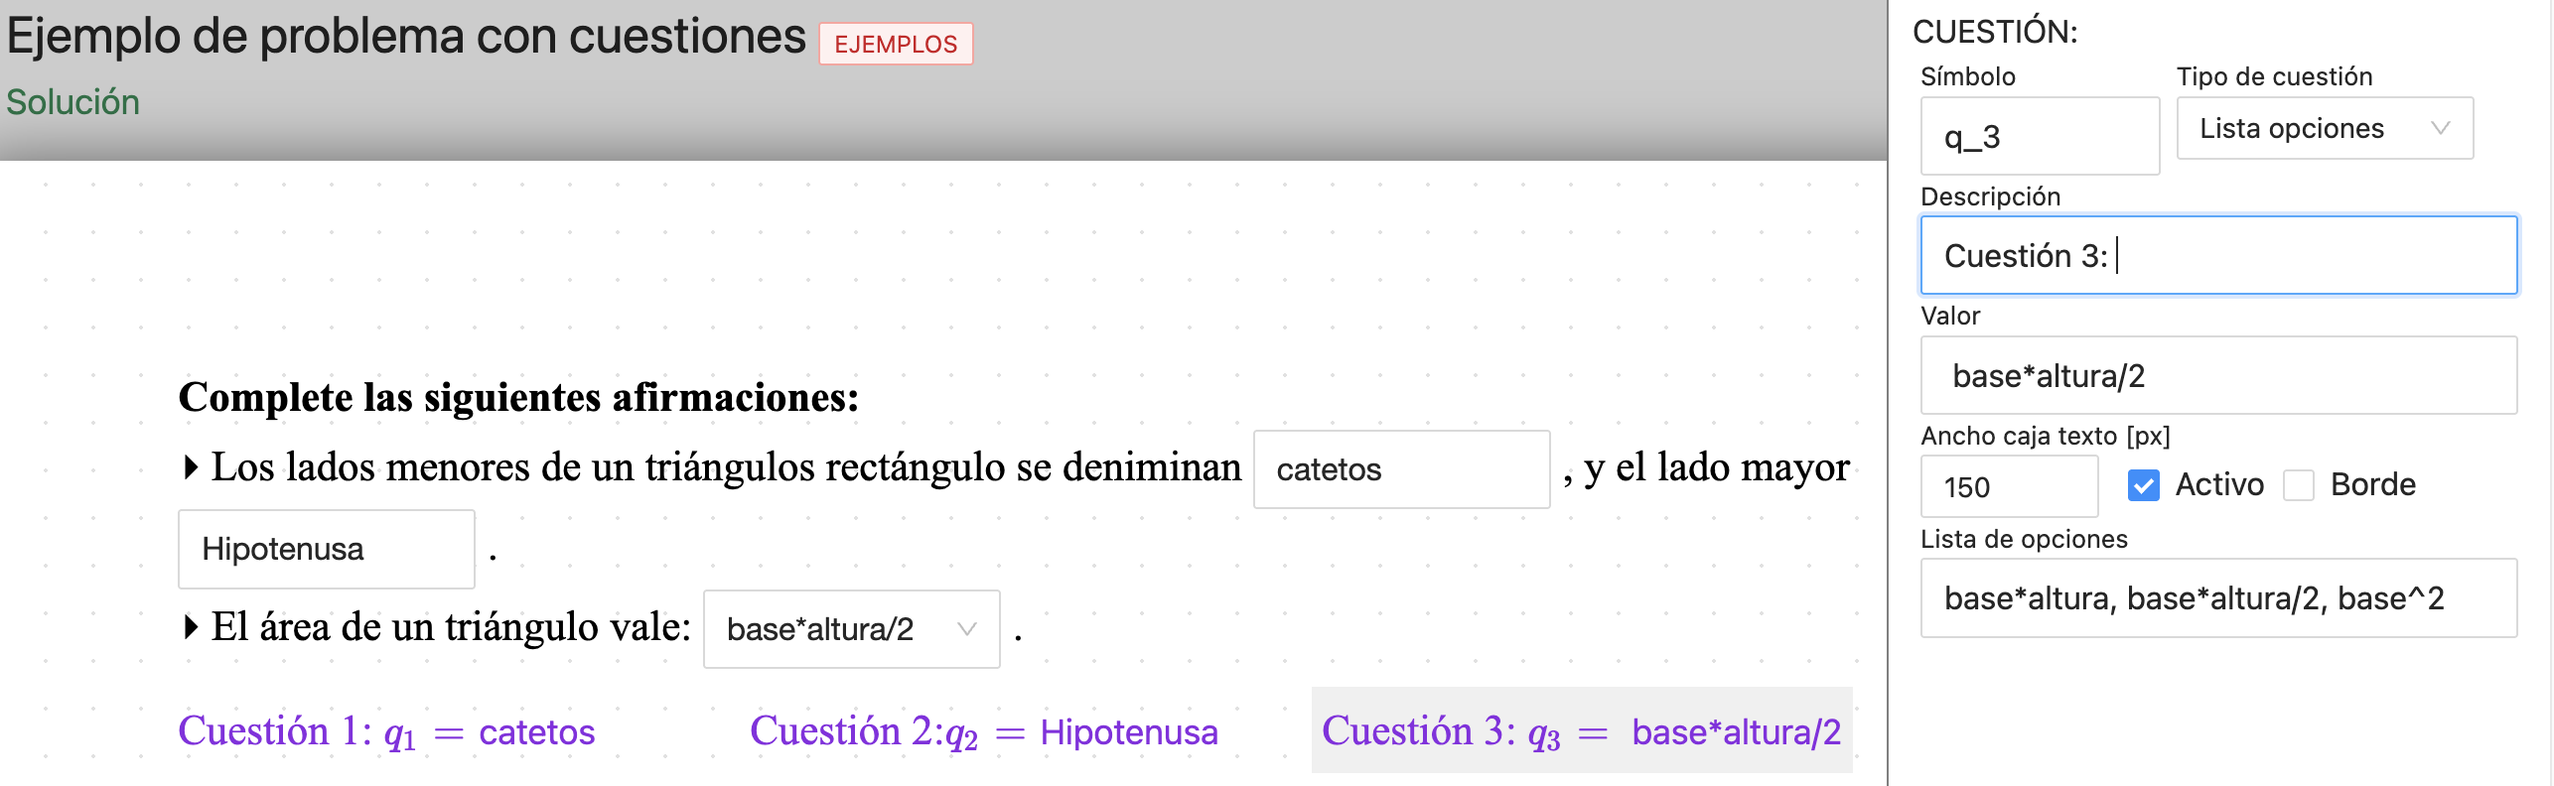
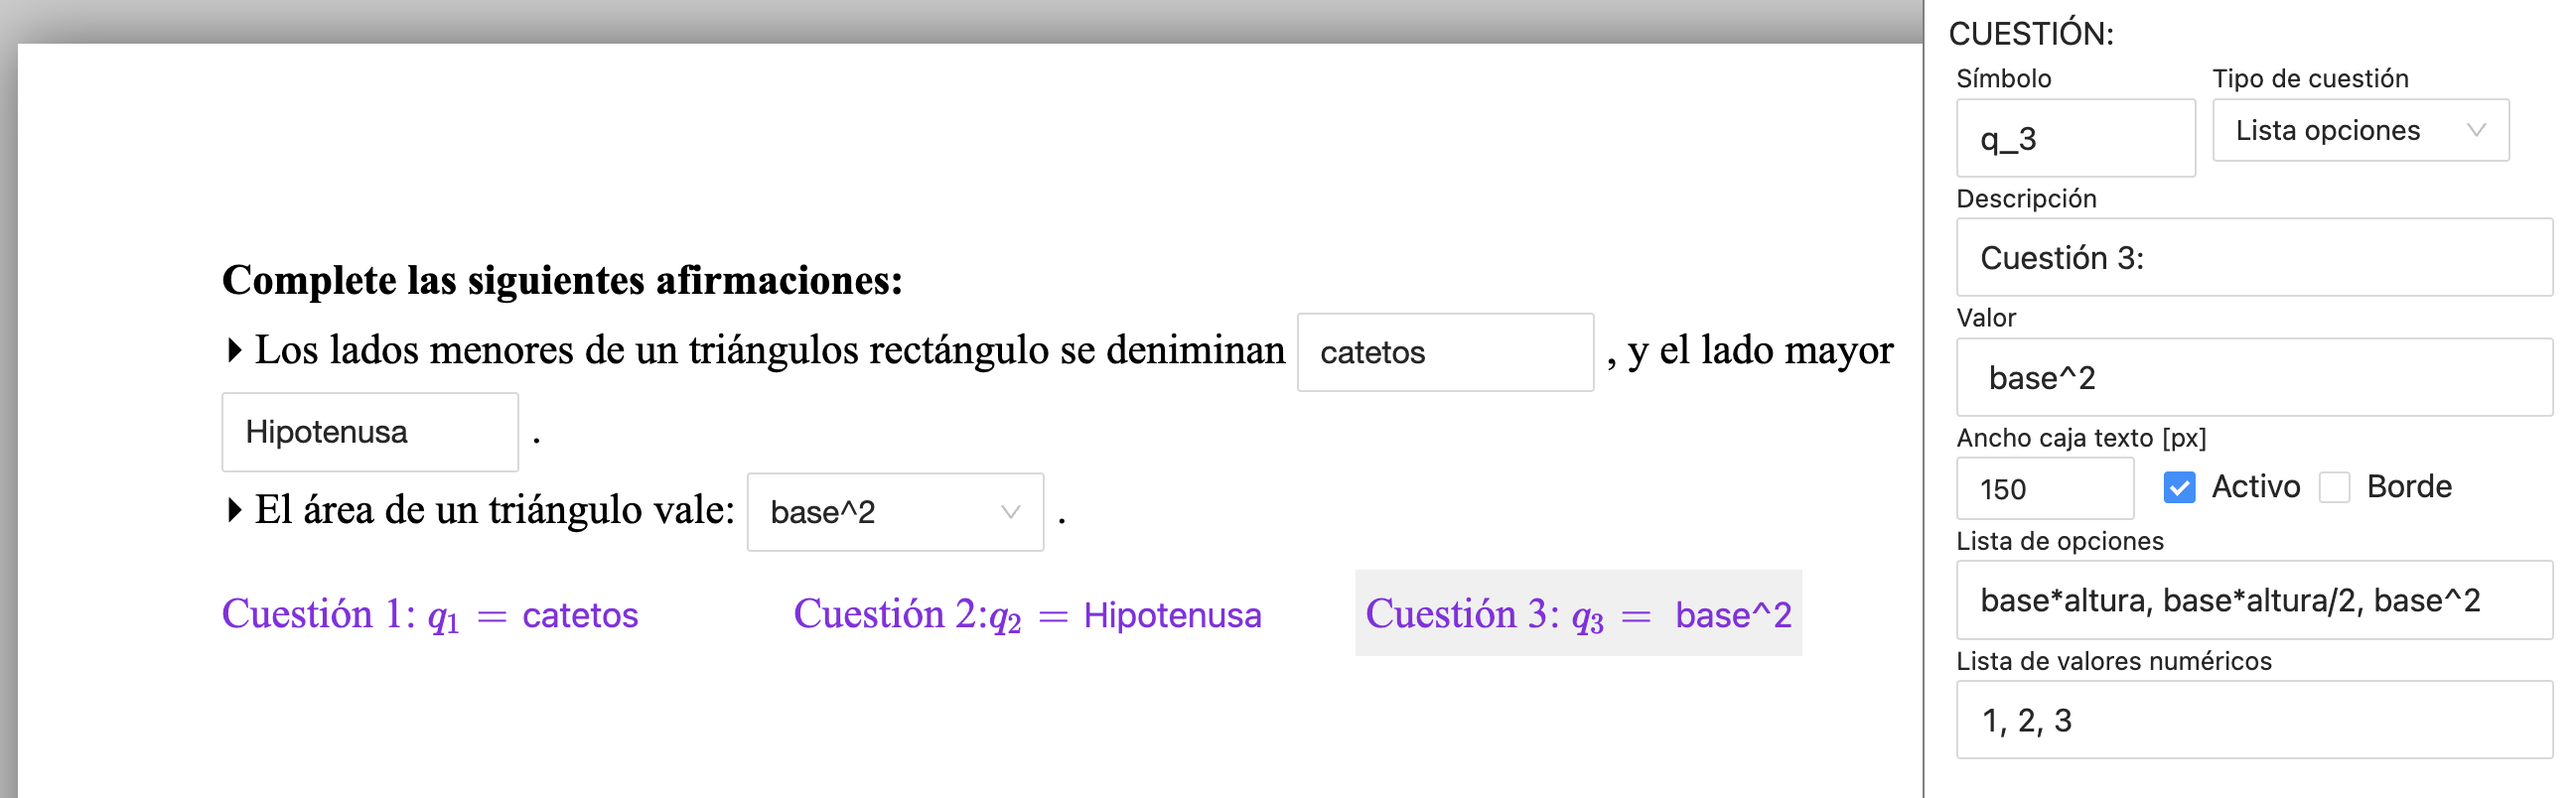
Version 4.41 con manual de usuario

diff --git a/docs/user manual.html b/docs/user manual.html
@@ -941,6 +941,16 @@
 					The unknowns, Fluids and Humid Airs will be displayed in the table in their final unit
 					once modified, if there is a unit change.</p>
 
+				<p>We can specify a new variable that is not defined in the problem and add to it an equals
+					 and the values or expressions separated by commas that we want it to take in each of the rows of the table.
+					This variable will be added to the problem and solved along with the rest of the problem components.
+					For example, if we add a column with the variable “T_3 = T_1, T_2, 24 [ºC]” the variable T_3 will 
+					be added to the problem and will take the value of T_1 for the first row, 
+					the value of T_2 for the second row and 24 for the rest of the rows. 
+					The unit can be specified in square brackets at the end of the expression. 
+					This option allows us to create variables and associate them to graphs with 
+					values that are defined in the problem.</p>
+
 				<p>Once all the columns have been defined, click on the "Calculate" button to obtain the values of all
 					the rows, solving the problem as many times as we have rows. If we activate the check
 					“Recalculate table when solving” the table will be recalculated each time we solve the problem (or
@@ -1445,10 +1455,11 @@
 					which will be sent to the student when the activity is created,
 					and the solution, which will be used to correct the activity.
 					In the statement the value of the question should be left empty and
-					in the solution the correct value of the question should be included.
-					For text type questions with several possible solutions, the teacher can include
+					in the solution the correct value of the question should be included.</p>
+					<p>For text type questions with several possible solutions, the teacher can include
 					in the values of the differents correct solutions separated by commas.
 					When correcting, the differences between upper and lower case letters are not taken into account.
+					The “List of numerical values” field will be used if any data refers to the question.
 				</p>
 				</p>
 				<img class="ui bordered centered image" src="img/Solucion cuestion_en.png" width="960"

diff --git a/docs/manual usuario.html b/docs/manual usuario.html
@@ -994,6 +994,16 @@
 					una vez modificada, si es que existe cambio de unidad.
 				</p>
 
+				<p>Podremos especificar una nueva variable que no esté definida en el problema y añadirle un igual
+					y los valores o expresiones separados por comas que queremos que tome en cada una de las
+					filas de la tabla. Esta variable se añadirá al problema y se resolverá junto con el resto de
+					los componentes del problema. Por ejemplo, si añadimos una columna con la variable
+					"T_3 = T_1, T_2, 24 [ºC]" se añadirá al problema la variable T_3 que tomará el valor de T_1 para la
+					primera fila, el valor de T_2 para la segunda fila y 24 para el resto de filas. La unidad puede especificarse
+					entre corchetes al final de la expresión. Esta opción nos permite crear variables y asociarlas a gráficas con 
+					valores que están definidos en el problema.
+				</p>
+
 				<p>Una vez definidas todas las columnas pulsaremos el botón "Calcular" para obtener los valores
 					de todas las filas resolviendo el problema tantas veces como filas tengamos. Si activamos el check
 					"Recalcular tabla al resolver" se recalculará la tabla cada vez que resolvamos el problema (o la
@@ -1518,12 +1528,12 @@
 					al alumno cuando se cree la actividad, y la solución, que se usará para corregir la actividad. En el
 					enunciado el
 					valor de la cuestión debe de dejarse vacío y en la solución debe de incluirse el valor correcto de
-					la cuestión.
-					Para las cuestiones tipo texto con varias soluciones posibles, el profesor puede incluir en el valor
+					la cuestión.</p>
+					<p>Para las cuestiones tipo texto con varias soluciones posibles, el profesor puede incluir en el valor
 					las diferentes
 					soluciones correctas separadas por comas. Cuando se realiza la corrección las diferencias entre
 					mayúsculas y minúsculas no son
-					tenidas en cuenta. </p>
+					tenidas en cuenta. El campo "Lista de valores numéricos" se usará si algún dato hace referencia a la cuestión.</p>
 				</p>
 				<img class="ui bordered centered image" src="img/Solucion cuestion.png" width="960"
 					alt="Solución cuestión" />
